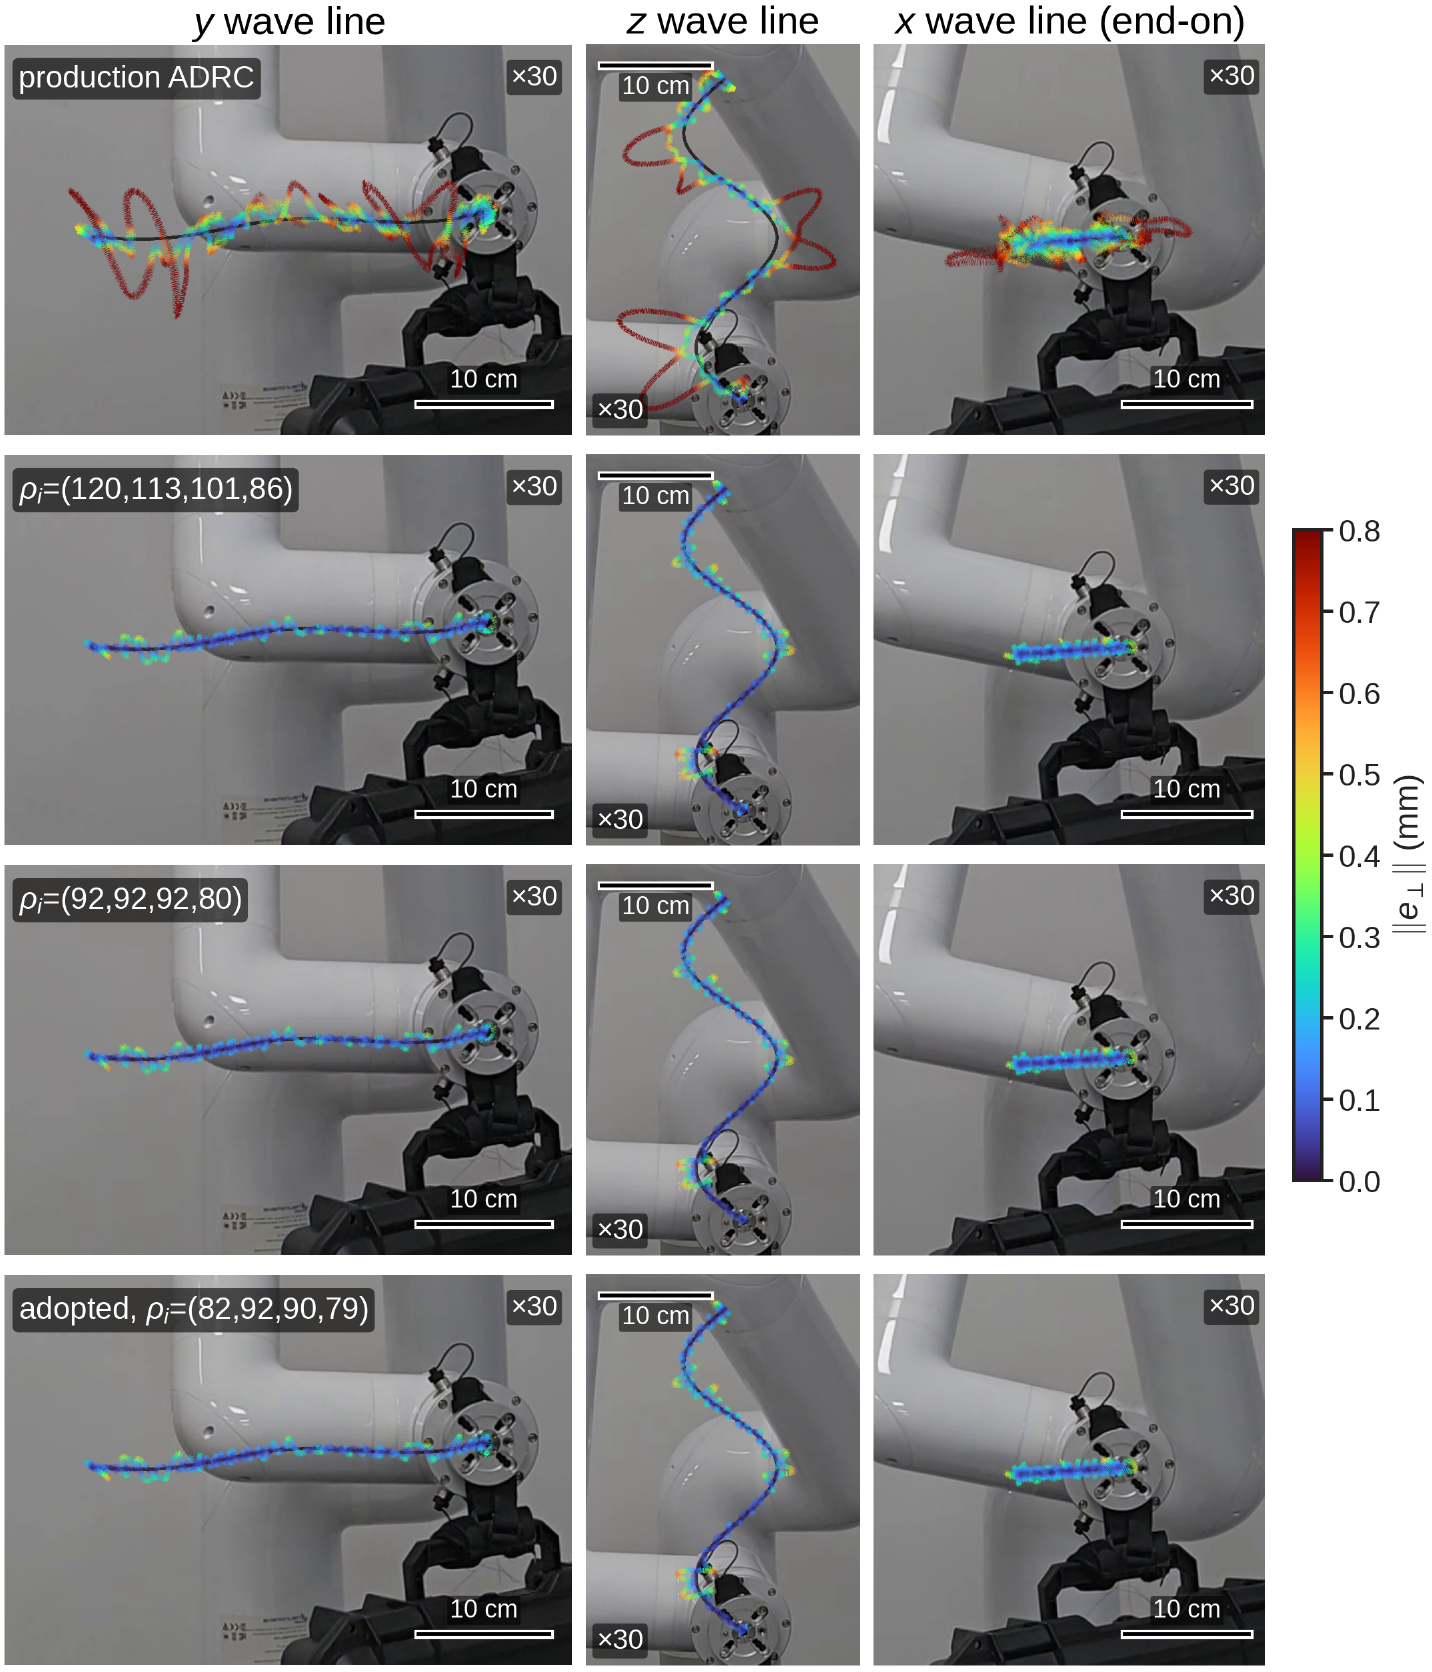
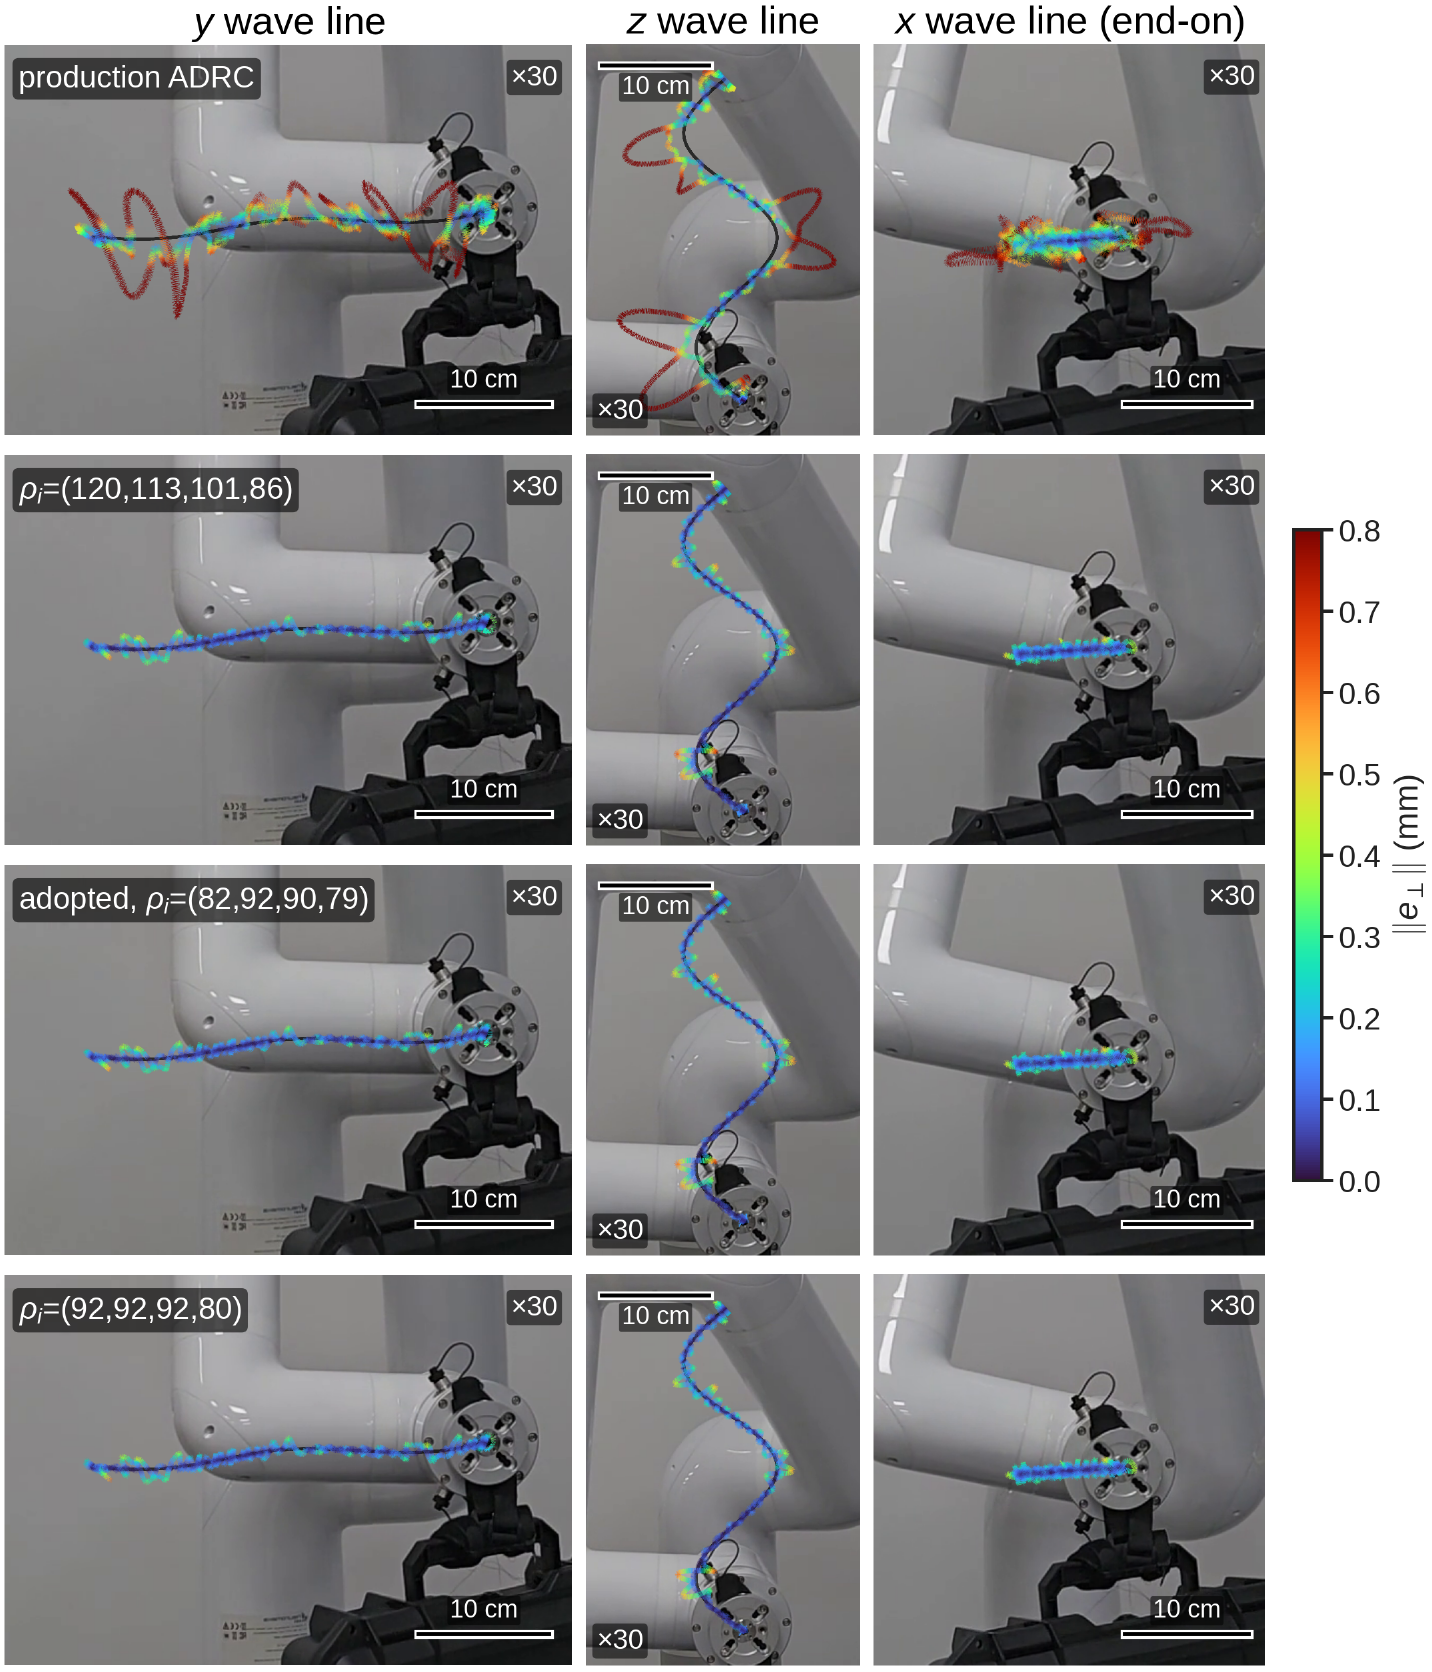
Table III and the wave loops by decreasing cost, the best last; Fig. 4 and Fig. 5 stills with one tile geometry

diff --git a/index.html b/index.html
@@ -156,7 +156,7 @@
           <div class="media-card loop-card"><div class="media-card-bar"><span class="media-name">4th, ρ<sub>i</sub> = (82, 92, 90, 79) <span class="speed-tag">adopted</span></span><span class="media-metrics"><span>e<sub>⊥</sub> x/y/z <strong>0.13 / 0.11 / 0.13</strong> mm</span><span>ζ <strong>0.05</strong></span></span></div><video class="loop" muted loop playsinline preload="none" poster="videos/loops/z05.jpg?v=20261111" data-src="videos/loops/z05.mp4?v=20261111" aria-label="Adopted setting, one cycle on the three lines"></video></div>
           <div class="media-card loop-card"><div class="media-card-bar"><span class="media-name">4th, ρ = 104 <span class="speed-tag">30 Hz oscillation on z, rejected</span></span><span class="media-metrics"><span>e<sub>⊥</sub> x/y/z <strong>0.12 / 0.08 / 0.10</strong> mm</span><span>ζ <strong>−0.002</strong></span></span></div><video class="loop" muted loop playsinline preload="none" poster="videos/loops/rho104.jpg?v=20261111" data-src="videos/loops/rho104.mp4?v=20261111" aria-label="rho = 104, one cycle on the three lines"></video></div>
         </div>
-        <p class="section-reference"><span>Still version.</span> The production ADRC, ρ = 59, the binomial observer, the rejected ρ = 104 and the adopted setting as a single figure, the measured deviation drawn ×100, in <a href="assets/snapshots_all.png?v=20261113b">snapshots_all.png</a> (Fig. 4 of the paper).</p>
+        <p class="section-reference"><span>Still version.</span> The production ADRC, ρ = 59, the binomial observer, the rejected ρ = 104 and the adopted setting as a single figure, the measured deviation drawn ×100, in <a href="assets/snapshots_all.png?v=20261113c">snapshots_all.png</a> (Fig. 4 of the paper).</p>
       </div>
     </section>
 
@@ -192,14 +192,14 @@
       </div>
       <div class="media-group">
         <div class="media-group-header"><h3 class="media-group-title">Every setting of Table III in motion</h3></div>
-        <p class="section-description" style="margin-top:0">One A–B–A cycle of each setting on the wave lines with the 4.5 kg payload, the y wave line, the z wave line and the x wave line seen end-on, with the measured path deviation drawn on the frames magnified ×30 as it is measured (the colour is the perpendicular error, 0–0.8 mm, the dashed line the commanded wave and the white circle the current deviation). Rows in the order of Table III, the adopted setting last. The clips loop and play when they are in view.</p>
+        <p class="section-description" style="margin-top:0">One A–B–A cycle of each setting on the wave lines with the 4.5 kg payload, the y wave line, the z wave line and the x wave line seen end-on, with the measured path deviation drawn on the frames magnified ×30 as it is measured (the colour is the perpendicular error, 0–0.8 mm, the dashed line the commanded wave and the white circle the current deviation). Rows in the order of Table III, decreasing cost, the best last. The clips loop and play when they are in view.</p>
         <div class="media-grid single loops-grid">
           <div class="media-card loop-card"><div class="media-card-bar"><span class="media-name">Production ADRC (3rd-order ESO)</span><span class="media-metrics"><span>e<sub>⊥</sub> x/y/z <strong>0.49 / 0.62 / 0.58</strong> mm</span><span>J̄ (w<sub>⊥</sub> = 0.5) <strong>1.00</strong></span></span></div><video class="loop" muted loop playsinline preload="none" poster="videos/loops_wave/adrc.jpg?v=20261113" data-src="videos/loops_wave/adrc.mp4?v=20261113" aria-label="Production ADRC, one cycle on the three wave lines"></video></div>
           <div class="media-card loop-card"><div class="media-card-bar"><span class="media-name">4th, ρ<sub>i</sub> = (120, 113, 101, 86) <span class="speed-tag">reversal weighting</span></span><span class="media-metrics"><span>e<sub>⊥</sub> x/y/z <strong>0.14 / 0.16 / 0.17</strong> mm</span><span>J̄ (w<sub>⊥</sub> = 0.5) <strong>0.41</strong></span></span></div><video class="loop" muted loop playsinline preload="none" poster="videos/loops_wave/w2.jpg?v=20261113" data-src="videos/loops_wave/w2.mp4?v=20261113" aria-label="rho_i = (120, 113, 101, 86), one cycle on the three wave lines"></video></div>
-          <div class="media-card loop-card"><div class="media-card-bar"><span class="media-name">4th, ρ<sub>i</sub> = (92, 92, 92, 80) <span class="speed-tag">perpendicular and along-track weightings</span></span><span class="media-metrics"><span>e<sub>⊥</sub> x/y/z <strong>0.13 / 0.15 / 0.16</strong> mm</span><span>J̄ (w<sub>⊥</sub> = 0.5) <strong>0.39</strong></span></span></div><video class="loop" muted loop playsinline preload="none" poster="videos/loops_wave/w1.jpg?v=20261113" data-src="videos/loops_wave/w1.mp4?v=20261113" aria-label="rho_i = (92, 92, 92, 80), one cycle on the three wave lines"></video></div>
           <div class="media-card loop-card"><div class="media-card-bar"><span class="media-name">4th, ρ<sub>i</sub> = (82, 92, 90, 79) <span class="speed-tag">adopted on the straight lines</span></span><span class="media-metrics"><span>e<sub>⊥</sub> x/y/z <strong>0.14 / 0.15 / 0.17</strong> mm</span><span>J̄ (w<sub>⊥</sub> = 0.5) <strong>0.40</strong></span></span></div><video class="loop" muted loop playsinline preload="none" poster="videos/loops_wave/z05.jpg?v=20261113" data-src="videos/loops_wave/z05.mp4?v=20261113" aria-label="adopted setting, one cycle on the three wave lines"></video></div>
+          <div class="media-card loop-card"><div class="media-card-bar"><span class="media-name">4th, ρ<sub>i</sub> = (92, 92, 92, 80) <span class="speed-tag">perpendicular and along-track weightings</span></span><span class="media-metrics"><span>e<sub>⊥</sub> x/y/z <strong>0.13 / 0.15 / 0.16</strong> mm</span><span>J̄ (w<sub>⊥</sub> = 0.5) <strong>0.39</strong></span></span></div><video class="loop" muted loop playsinline preload="none" poster="videos/loops_wave/w1.jpg?v=20261113" data-src="videos/loops_wave/w1.mp4?v=20261113" aria-label="rho_i = (92, 92, 92, 80), one cycle on the three wave lines"></video></div>
         </div>
-        <p class="section-reference"><span>Still version.</span> The four settings as a single figure, the measured deviation drawn ×30, in <a href="assets/wave.png?v=20261113">wave.png</a> (Fig. 5 of the paper).</p>
+        <p class="section-reference"><span>Still version.</span> The four settings as a single figure, the measured deviation drawn ×30, in <a href="assets/wave.png?v=20261113b">wave.png</a> (Fig. 5 of the paper).</p>
       </div>
       <div class="media-group">
         <div class="media-group-header"><h3 class="media-group-title">Every setting of Table III</h3></div>
@@ -211,12 +211,12 @@
             <tbody>
               <tr><td>Production ADRC (3rd order)</td><td>0.49</td><td>0.62</td><td>0.58</td><td>1.76</td><td>2.48</td><td>2.66</td><td>0.43</td><td>0.45</td><td>0.54</td><td>1.00</td><td>1.00</td><td>1.00</td></tr>
               <tr><td>4th, ρ<sub>i</sub> = (120, 113, 101, 86), reversal weighting</td><td>0.14</td><td>0.16</td><td>0.17</td><td>0.61</td><td>0.86</td><td>0.80</td><td>0.12</td><td>0.13</td><td>0.14</td><td>0.41</td><td>0.43</td><td>0.43</td></tr>
-              <tr><td>4th, ρ<sub>i</sub> = (92, 92, 92, 80), perpendicular and along-track weightings</td><td>0.13</td><td>0.15</td><td>0.16</td><td>0.62</td><td>0.77</td><td>0.78</td><td>0.11</td><td>0.12</td><td>0.13</td><td><strong>0.39</strong></td><td><strong>0.41</strong></td><td><strong>0.41</strong></td></tr>
               <tr class="adopted"><td>4th, ρ<sub>i</sub> = (82, 92, 90, 79), adopted on the straight lines</td><td>0.14</td><td>0.15</td><td>0.17</td><td>0.63</td><td>0.98</td><td>0.82</td><td>0.12</td><td>0.13</td><td>0.14</td><td>0.40</td><td>0.43</td><td>0.42</td></tr>
+              <tr><td>4th, ρ<sub>i</sub> = (92, 92, 92, 80), perpendicular and along-track weightings</td><td>0.13</td><td>0.15</td><td>0.16</td><td>0.62</td><td>0.77</td><td>0.78</td><td>0.11</td><td>0.12</td><td>0.13</td><td><strong>0.39</strong></td><td><strong>0.41</strong></td><td><strong>0.41</strong></td></tr>
             </tbody>
           </table>
         </div>
-        <p class="table-note">Perpendicular-error RMS e<sub>⊥</sub> and reversal error e<sub>rev</sub> on the wave lines, means over the two runs of each line, from Table III of the paper, with ρ in rad/s, for the two optima of the wave search, each tagged with the weighting that found it (the perpendicular and the along-track weighting share one optimum), and the adopted setting of the paper, the optimum of the bound 0.05 under its default weighting on the straight lines, fixed before this study, and the cost under each weighting (one path weight raised to 0.5, the other two 0.1, w<sub>u</sub> = 0.3), normalized by the production ADRC of the same line and load and averaged over the six lines. Rows in the order of the paper, decreasing cost, the adopted setting last. The optimum of the perpendicular weighting is lowest under every weighting, by 1–3 % over the adopted setting and 3–5 % over that of the reversal weighting, and repeated runs of one setting differ by 0.02 at most. With the payload the adopted setting and that optimum trade places with the weighting, so the adopted setting, chosen and validated on the straight lines, is kept.</p>
+        <p class="table-note">Perpendicular-error RMS e<sub>⊥</sub> and reversal error e<sub>rev</sub> on the wave lines, means over the two runs of each line, from Table III of the paper, with ρ in rad/s, for the two optima of the wave search, each tagged with the weighting that found it (the perpendicular and the along-track weighting share one optimum), and the adopted setting of the paper, the optimum of the bound 0.05 under its default weighting on the straight lines, fixed before this study, and the cost under each weighting (one path weight raised to 0.5, the other two 0.1, w<sub>u</sub> = 0.3), normalized by the production ADRC of the same line and load and averaged over the six lines. Rows in the order of the paper, decreasing cost, the best last. The optimum of the perpendicular weighting is lowest under every weighting, by 1–3 % over the adopted setting and 3–5 % over that of the reversal weighting, and repeated runs of one setting differ by 0.02 at most. With the payload the adopted setting and that optimum trade places with the weighting, so the adopted setting, chosen and validated on the straight lines, is kept.</p>
       </div>
       <p class="section-description">The weighting moves neither the simulated nor the measured optimum beyond the scatter of the search, and the adopted setting carries its gain to a curved path. The search decides the damping bound, and the weighting only names a point of the cluster on it.</p>
     </section>
